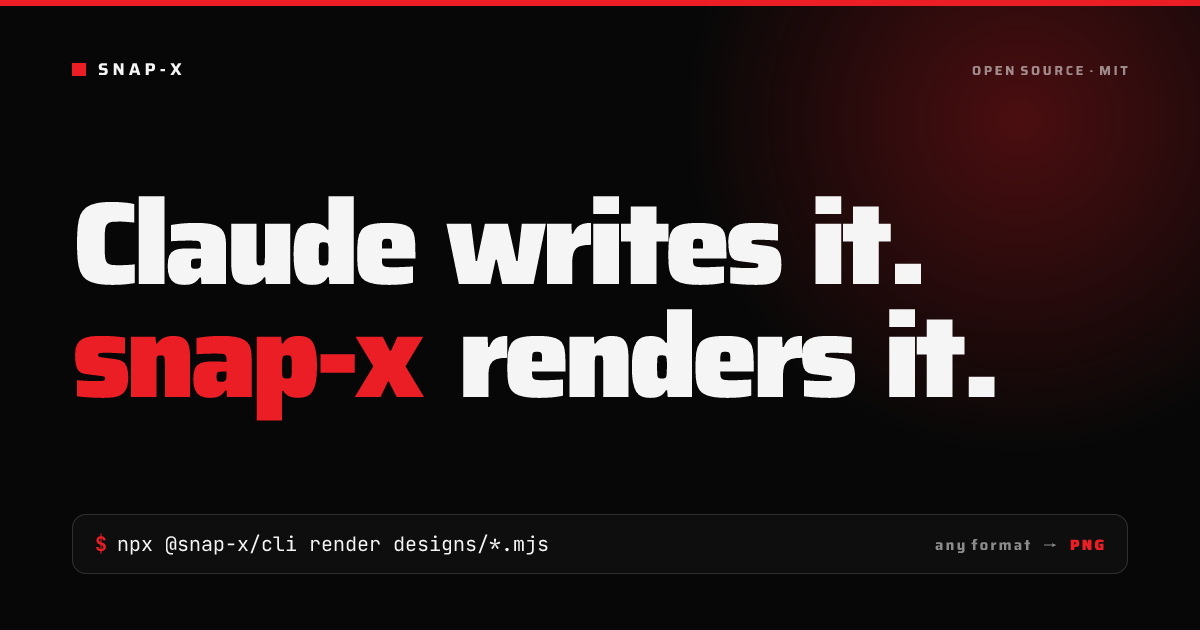
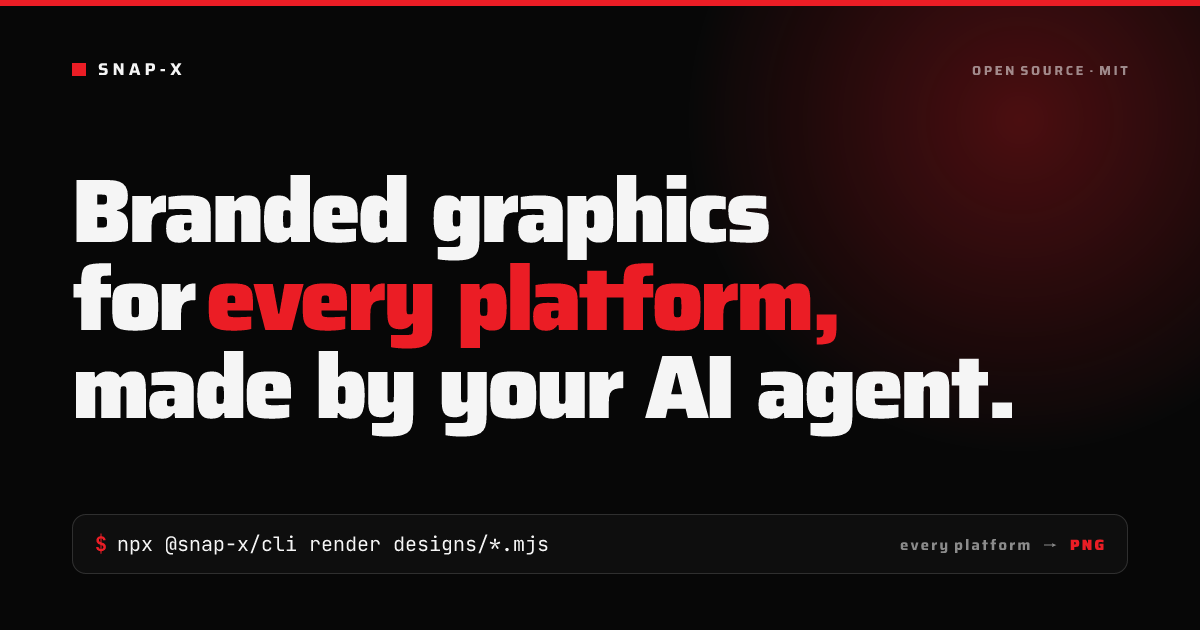
docs: reposition examples/snap-x — new headline, subline, and pillars
Replace the old "Claude writes it. snap-x renders it." hook across all
5 dogfood designs (og, cover, poster, readme-card, thumbnail) with the
repositioning brief's headline ("Branded graphics for every platform,
made by your AI agent.") and its three pillars, in place of the old
4-step mechanical pipeline strip wherever a design had room for it.

Ran `snap-x guides` on cover.mjs and thumbnail.mjs (both exact-match
real platform formats: x-header, youtube-thumbnail). thumbnail.mjs was
clean. cover.mjs's headline+command column was centered into x-header's
profile-photo avoid zone at the layout's default alignment; nudged the
column right just enough to clear the hard avoid zone (with margin),
noted in snap-plan.md that it doesn't fully honor the softer "safe
text" box recommendation since this banner is dual-purpose (X header
and generic GitHub/site banner), and a full redesign to honor both
would have crowded the pillar column off the canvas at this width.

Changed region(s): [[0.0617, 0.2714, 0.8633, 0.6937], [0.74, 0.8444, 0.8633, 0.8746]]

diff --git a/examples/snap-x/snap-plan.md b/examples/snap-x/snap-plan.md
@@ -13,18 +13,20 @@ Generated by following the /snap-x skill on this repository. Re-run any time: `n
 8. Theme: dark
 
 ## Step 2 — plan
-Hook: **Claude writes it. snap-x renders it.**  (direction: bold typographic, dark; red used only for emphasis)
+Hook: **Branded graphics for every platform, made by your AI agent.**  (direction: bold typographic, dark; red used only for emphasis)
 
-Shared system: near-black `#070707`, red glow top-right, huge Saira 900 headline (two lines, "snap-x" in red), a small project → Claude Code → design.mjs → PNG strip, and the command in JetBrains Mono.
+Shared system: near-black `#070707`, red glow top-right, huge Saira 900 headline (three lines: "Branded graphics" / "for every platform," in red / "made by your AI agent."), the three pillars (§1.3 of repositioning.md, always in this order — "Your brand in, every platform out.", "Correct for each platform.", "Exact and repeatable.") standing in for the old mechanical pipeline strip wherever there's room, and the render command in JetBrains Mono.
 
 | Format | Size | Composition |
 |---|---|---|
-| readme-card | 1280×640 | brand bar · headline · one-line description · pipeline chips + command — **used as the README header** |
-| og | 1200×630 | headline · full-width command bar ("any format → PNG") |
-| thumbnail | 1280×720 | near-pure headline (122px) · large pipeline chips |
-| cover | 1500×500 | headline + command left · numbered 4-step pipeline right (safe for X's center crop) |
-| poster | 1080×1920 | four-line stacked headline · description · four pipeline rows (PNG highlighted) |
+| readme-card | 1280×640 | brand bar · headline · subline (the exact positioning subline) · pipeline chips + command — **used as the README header** |
+| og | 1200×630 | headline · full-width command bar ("every platform → PNG") |
+| thumbnail | 1280×720 | near-pure headline (92px) · large pipeline chips |
+| cover | 1500×500 | headline + command left · three pillars (numbered, with sub-line) right |
+| poster | 1080×1920 | seven-line stacked headline (word-per-line) · subline · three pillar rows (row 3 highlighted) · command |
 
 Assets (Q9): no official logo file exists for snap-x; a text wordmark (red square + "SNAP-X") is used.
 Glyphs: avoid ✔/emoji (neither font has them) — → is used instead.
-Lessons from the first render: sizes are set so headline lines never wrap (`whiteSpace: nowrap`, 164px on the poster, 122px on the thumbnail).
+Lessons from the first render: sizes are set so headline lines never wrap (`whiteSpace: nowrap`, 140px on the poster, 92px on the thumbnail).
+
+**Placement check (`snap-x guides`)**: `cover.mjs` (1500×500) and `thumbnail.mjs` (1280×720) exact-match real platform formats (`x-header`, `youtube-thumbnail`), so `snap-x guides` draws their real avoid/safe zones. `thumbnail.mjs` is clean — nothing sits near the duration-badge zone. `cover.mjs` originally centered its headline+command column, which put it inside `x-header`'s recommended "text lives here" safe box only partially — the column starts at x=190 (padding), clear of the hard avoid zone (the profile-photo circle, right edge at x≈375) with margin, but left of the safe box's recommended x≥430 start. Since this banner is dual-purpose (X header *and* generic GitHub/site banner, per `share-copy.txt`), and pushing the column fully past x=430 crowded the pillar column off the right edge at this width, the column was nudged right just enough to clear the hard avoid zone rather than fully honoring the softer safe-box recommendation. Worth another pass if this file is ever used *only* as an X header.
